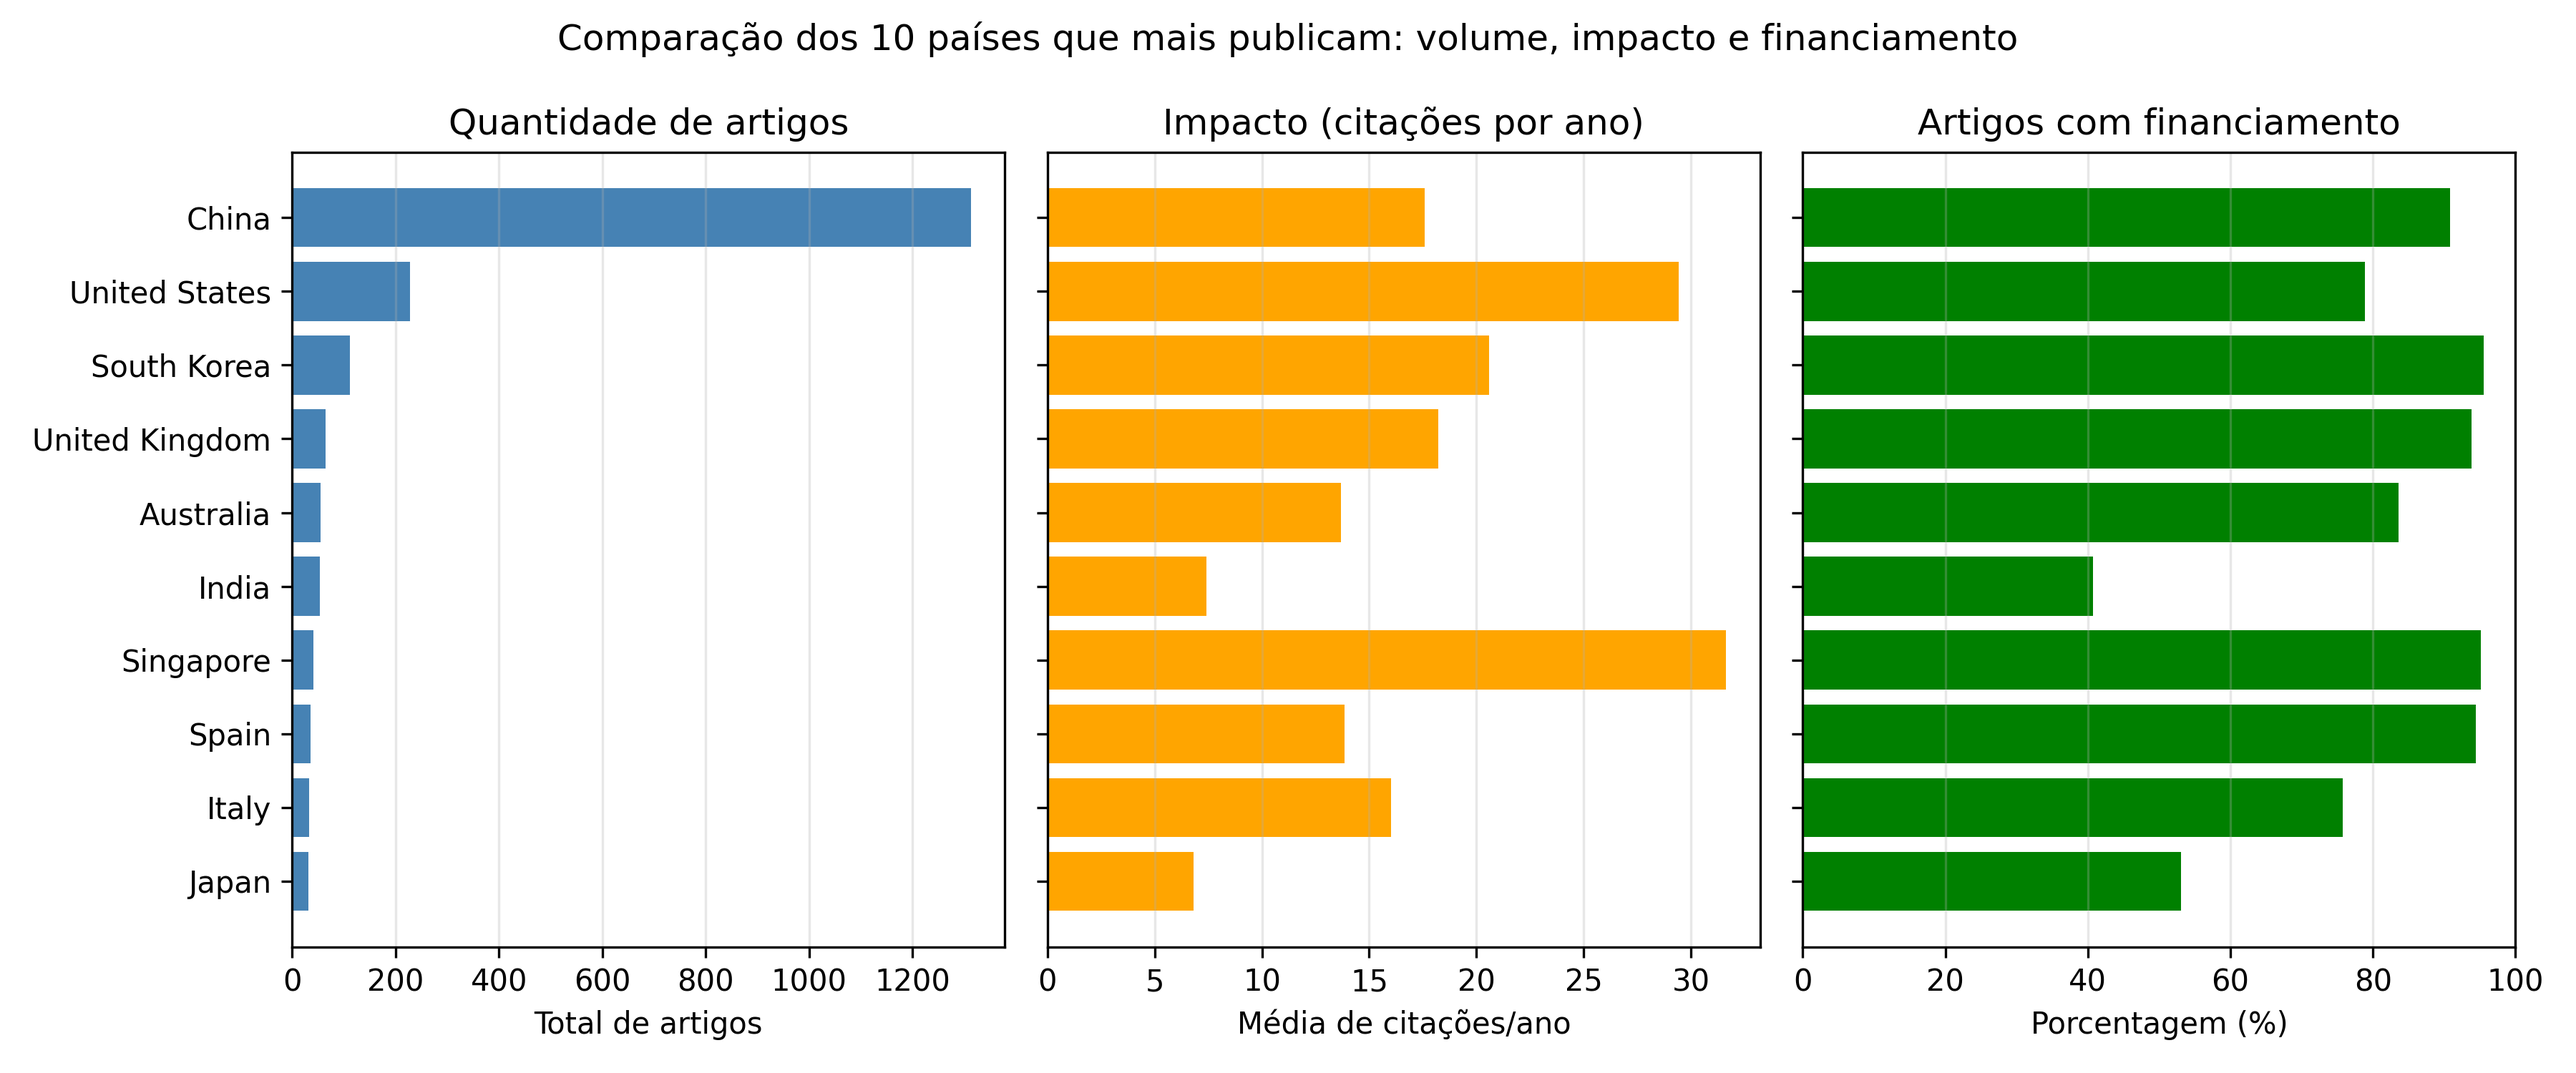
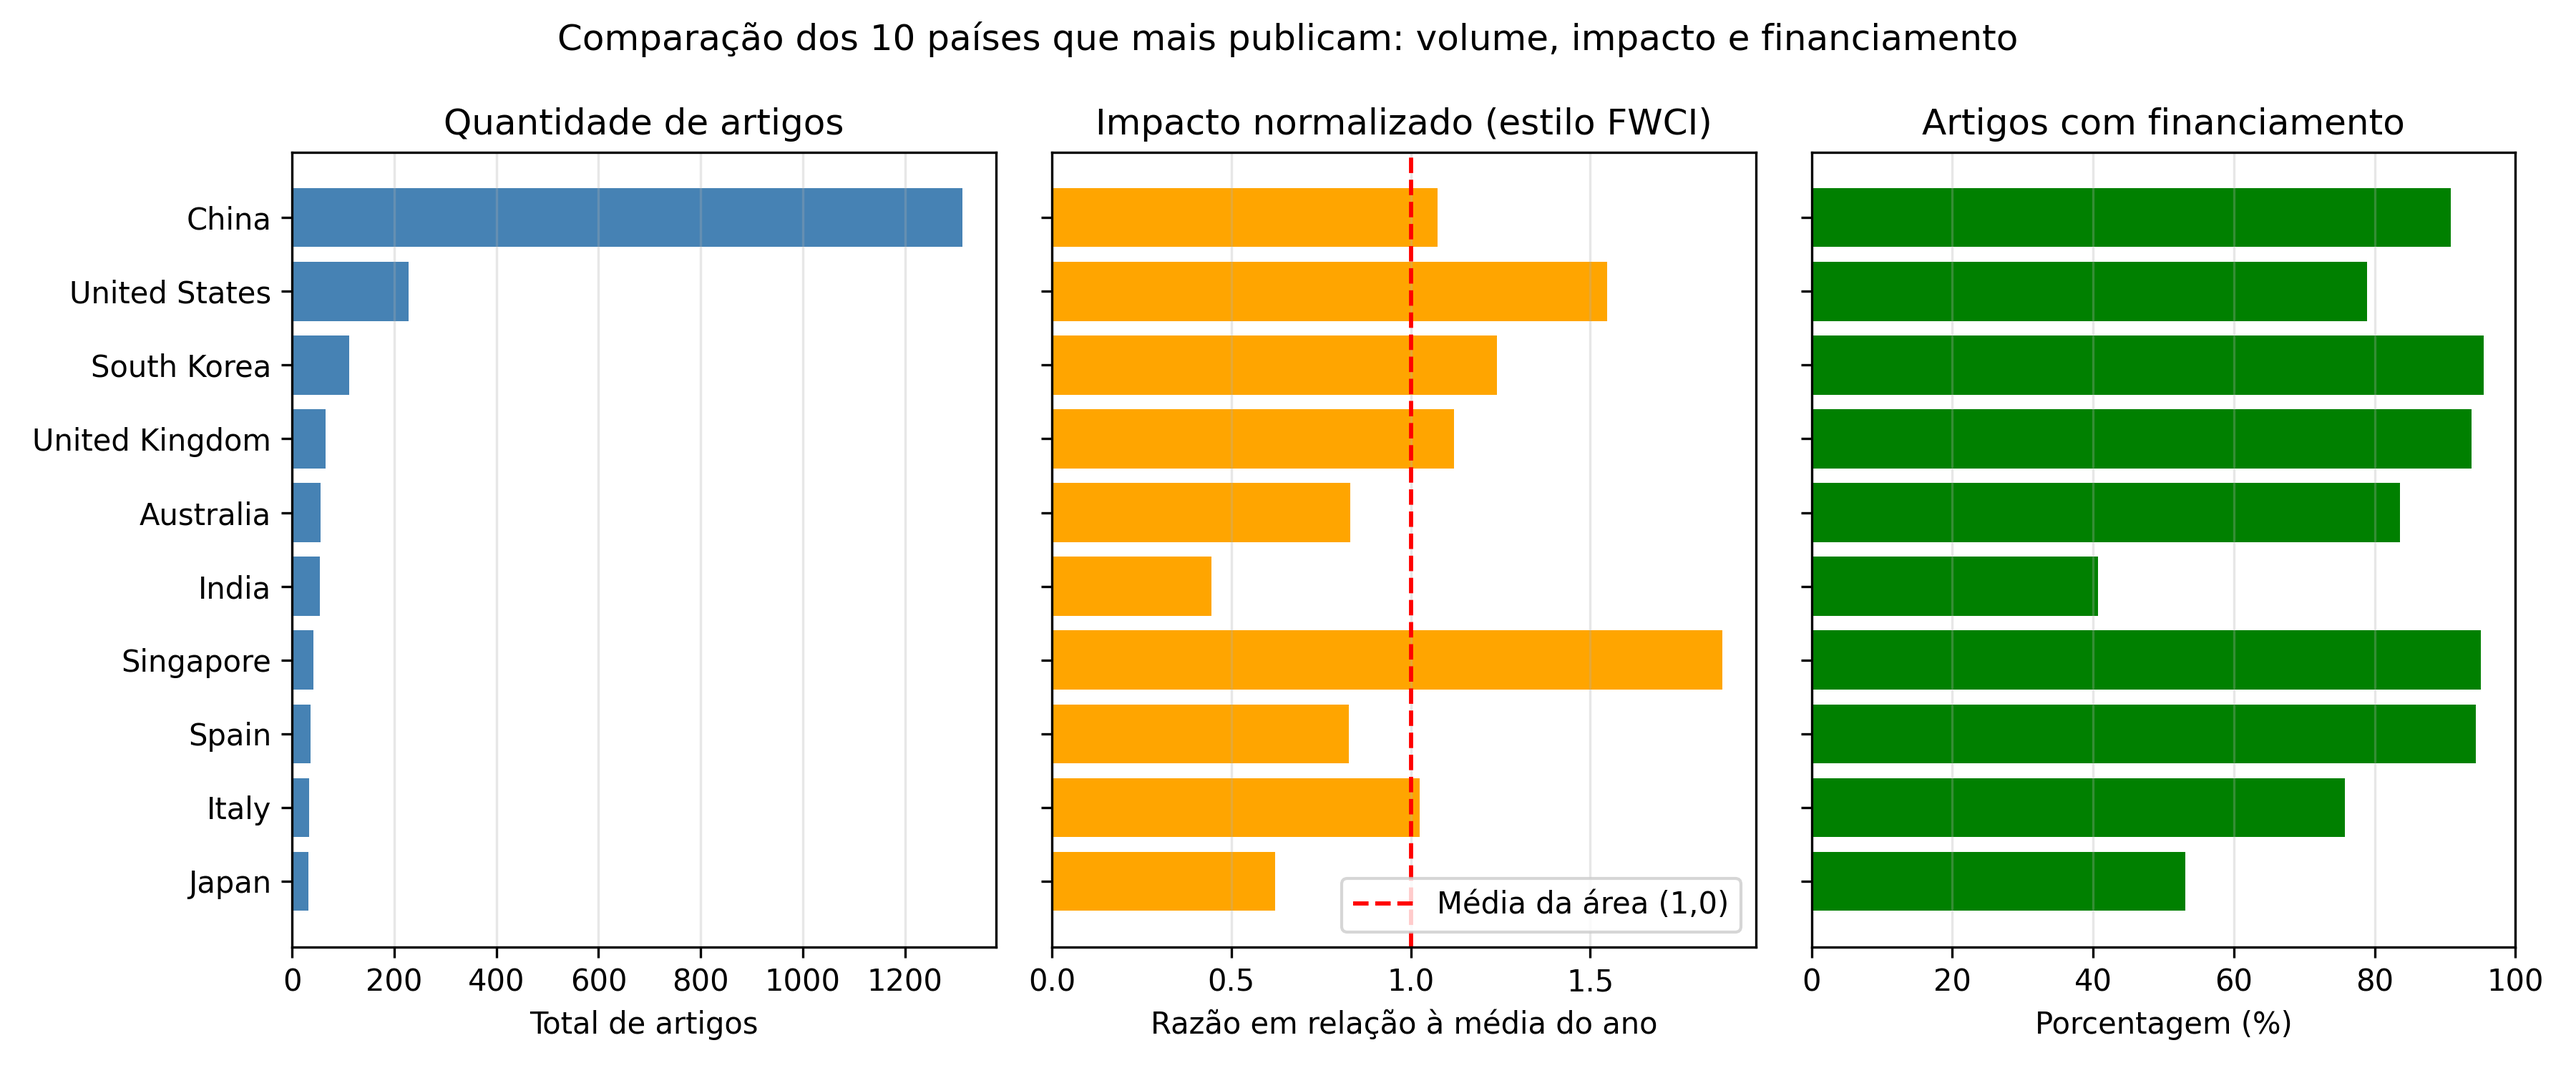
Atualiza graficos do Julio, crescimento geral da Scopus, unificacao de paises e impacto normalizado

diff --git a/Julio/codigo/02_hipotese2_paises.py b/Julio/codigo/02_hipotese2_paises.py
@@ -23,6 +23,8 @@ scopus["ano"] = pd.to_numeric(scopus["ano"], errors="coerce")
 scopus["citacoes"] = pd.to_numeric(scopus["citacoes"], errors="coerce")
 scopus = scopus.dropna(subset=["ano", "citacoes"]).copy()
 scopus["citacoes_por_ano"] = scopus["citacoes"] / (2026 - scopus["ano"])
+media_ano = scopus.groupby("ano")["citacoes"].transform("mean")
+scopus["impacto_norm_ano"] = scopus["citacoes"] / media_ano.replace(0, float("nan"))
 scopus["tem_financiamento"] = (
     scopus[["fund_sponsor", "fund_acr", "fund_no"]]
     .fillna("")
@@ -37,7 +39,10 @@ scopus["lista_paises"] = scopus["paises"].fillna("").apply(
 por_pais = scopus.explode("lista_paises").dropna(subset=["lista_paises"]).rename(columns={"lista_paises": "pais"})
 
 volume = por_pais.groupby("pais")["eid"].nunique().reset_index(name="total_artigos")
-impacto = por_pais.groupby("pais")["citacoes_por_ano"].mean().reset_index()
+impacto = por_pais.groupby("pais").agg(
+    citacoes_por_ano=("citacoes_por_ano", "mean"),
+    impacto_norm_ano=("impacto_norm_ano", "mean")
+).reset_index()
 financiamento = por_pais.groupby("pais")["tem_financiamento"].mean().mul(100).round(1).reset_index(name="porcentagem_financiada")
 
 total_pais = pd.read_csv(arquivo_total_pais, encoding="utf-8-sig")
@@ -54,10 +59,10 @@ dados["artigos_por_100k"] = dados["total_artigos"] / dados["total_scopus_2000_20
 dados = dados[dados["total_artigos"] >= 10]
 dados = dados.sort_values("total_artigos", ascending=False).reset_index(drop=True)
 
-corr_vol_impacto = dados["total_artigos"].corr(dados["citacoes_por_ano"], method="spearman")
+corr_vol_impacto = dados["total_artigos"].corr(dados["impacto_norm_ano"], method="spearman")
 
 lider_volume = dados["pais"].iloc[0]
-lider_impacto = dados.sort_values("citacoes_por_ano", ascending=False)["pais"].iloc[0]
+lider_impacto = dados.sort_values("impacto_norm_ano", ascending=False)["pais"].iloc[0]
 lider_normalizado = dados.sort_values("artigos_por_100k", ascending=False)["pais"].iloc[0]
 
 tem_financiamento = dados["porcentagem_financiada"].max() > 0
@@ -71,15 +76,15 @@ else:
 print("Resultado da hipótese 2:")
 print("1o lugar em volume:", lider_volume)
 print("1o lugar em foco relativo (por 100 mil):", lider_normalizado)
-print("1o lugar em citações por ano:", lider_impacto)
+print("1o lugar em impacto normalizado (FWCI):", lider_impacto)
 print("1o lugar em financiamento:", lider_financiamento)
-print(f"Correlação volume x citações: {corr_vol_impacto:.2f}")
+print(f"Correlação volume x impacto normalizado: {corr_vol_impacto:.2f}")
 
 if tem_financiamento:
     print(f"Correlação volume x financiamento: {corr_vol_financiamento:.2f}")
 
 print("")
-print(dados[["pais", "total_artigos", "artigos_por_100k", "citacoes_por_ano", "porcentagem_financiada"]].head(10))
+print(dados[["pais", "total_artigos", "artigos_por_100k", "impacto_norm_ano", "porcentagem_financiada"]].head(10))
 
 # gráfico 1: bruto vs normalizado (cores fixas pros principais países)
 cores_destaque = {
@@ -122,7 +127,7 @@ eixos1[1].grid(axis="x", alpha=0.3)
 
 fig1.suptitle("Volume bruto vs. foco relativo por país", fontsize=11.5)
 plt.tight_layout()
-plt.savefig(pasta_resultados + "/fig_bruto_vs_normalizado.png", dpi=300)
+plt.savefig(os.path.join(pasta_resultados, "fig_bruto_vs_normalizado.png"), dpi=300)
 plt.close()
 
 # gráfico 2: comparação geral (volume, impacto e financiamento)
@@ -135,9 +140,11 @@ eixos2[0].set_title("Quantidade de artigos")
 eixos2[0].set_xlabel("Total de artigos")
 eixos2[0].grid(axis="x", alpha=0.3)
 
-eixos2[1].barh(top10["pais"], top10["citacoes_por_ano"], color="orange")
-eixos2[1].set_title("Impacto (citações por ano)")
-eixos2[1].set_xlabel("Média de citações/ano")
+eixos2[1].barh(top10["pais"], top10["impacto_norm_ano"], color="orange")
+eixos2[1].axvline(1.0, color="red", linestyle="--", linewidth=1.4, label="Média da área (1,0)")
+eixos2[1].set_title("Impacto normalizado (estilo FWCI)")
+eixos2[1].set_xlabel("Razão em relação à média do ano")
+eixos2[1].legend()
 eixos2[1].grid(axis="x", alpha=0.3)
 
 eixos2[2].barh(top10["pais"], top10["porcentagem_financiada"], color="green")
@@ -151,5 +158,5 @@ if not tem_financiamento:
 
 fig2.suptitle("Comparação dos 10 países que mais publicam: volume, impacto e financiamento", fontsize=12)
 plt.tight_layout()
-plt.savefig(pasta_resultados + "/fig_sintese_hipotese2.png", dpi=300)
+plt.savefig(os.path.join(pasta_resultados, "fig_sintese_hipotese2.png"), dpi=300)
 plt.close()

diff --git a/Julio/codigo/01_evolucao_temporal.py b/Julio/codigo/01_evolucao_temporal.py
@@ -44,28 +44,37 @@ print(f"Total de artigos: {total_antes + total_depois}")
 print(f"2000 a 2013: {total_antes} artigos (média de {media_antes:.1f}/ano | {media_milhao_antes:.2f} por milhão)")
 print(f"2014 a 2025: {total_depois} artigos (média de {media_depois:.1f}/ano | {media_milhao_depois:.2f} por milhão)")
 
-# dois gráficos lado a lado: bruto e normalizado
-fig, eixos = plt.subplots(1, 2, figsize=(13, 5))
+# três gráficos lado a lado: total mundial, volume bruto e normalizado
+fig, eixos = plt.subplots(1, 3, figsize=(16, 5))
 
-eixos[0].plot(resumo_anual["ano"], resumo_anual["artigos"], marker="o", color="steelblue", linewidth=2, label="Artigos por ano")
+eixos[0].plot(resumo_anual["ano"], resumo_anual["total_scopus_mundo"] / 1000000, marker="o", color="gray", linewidth=2, label="Total Scopus")
 eixos[0].axvline(2014, color="red", linestyle="--", linewidth=1.8, label="Marco de 2014")
-eixos[0].set_title("Volume bruto anual")
+eixos[0].set_title("Crescimento geral da ciência (Scopus)")
 eixos[0].set_xlabel("Ano de publicação")
-eixos[0].set_ylabel("Número de artigos")
+eixos[0].set_ylabel("Milhões de publicações no mundo")
 eixos[0].set_ylim(bottom=0)
 eixos[0].legend()
 eixos[0].grid(True, alpha=0.3)
 
-eixos[1].plot(resumo_anual["ano"], resumo_anual["por_milhao"], marker="o", color="green", linewidth=2, label="Artigos por milhão no mundo")
+eixos[1].plot(resumo_anual["ano"], resumo_anual["artigos"], marker="o", color="steelblue", linewidth=2, label="Artigos por ano")
 eixos[1].axvline(2014, color="red", linestyle="--", linewidth=1.8, label="Marco de 2014")
-eixos[1].set_title("Normalizado pelo total mundial da Scopus")
+eixos[1].set_title("Volume bruto anual do tema")
 eixos[1].set_xlabel("Ano de publicação")
-eixos[1].set_ylabel("Artigos por milhão de publicações no mundo")
+eixos[1].set_ylabel("Número de artigos")
 eixos[1].set_ylim(bottom=0)
 eixos[1].legend()
 eixos[1].grid(True, alpha=0.3)
 
-fig.suptitle("Evolução das publicações sobre resfriamento radiativo passivo (2000-2025)", fontsize=12)
+eixos[2].plot(resumo_anual["ano"], resumo_anual["por_milhao"], marker="o", color="green", linewidth=2, label="Artigos por milhão no mundo")
+eixos[2].axvline(2014, color="red", linestyle="--", linewidth=1.8, label="Marco de 2014")
+eixos[2].set_title("Normalizado pelo total mundial")
+eixos[2].set_xlabel("Ano de publicação")
+eixos[2].set_ylabel("Artigos por milhão de publicações no mundo")
+eixos[2].set_ylim(bottom=0)
+eixos[2].legend()
+eixos[2].grid(True, alpha=0.3)
+
+fig.suptitle("Evolução das publicações sobre resfriamento radiativo passivo vs. crescimento geral da Scopus (2000-2025)", fontsize=12)
 plt.tight_layout()
-plt.savefig(pasta_resultados + "/fig_evolucao_temporal.png", dpi=300)
+plt.savefig(os.path.join(pasta_resultados, "fig_evolucao_temporal.png"), dpi=300)
 plt.close()
